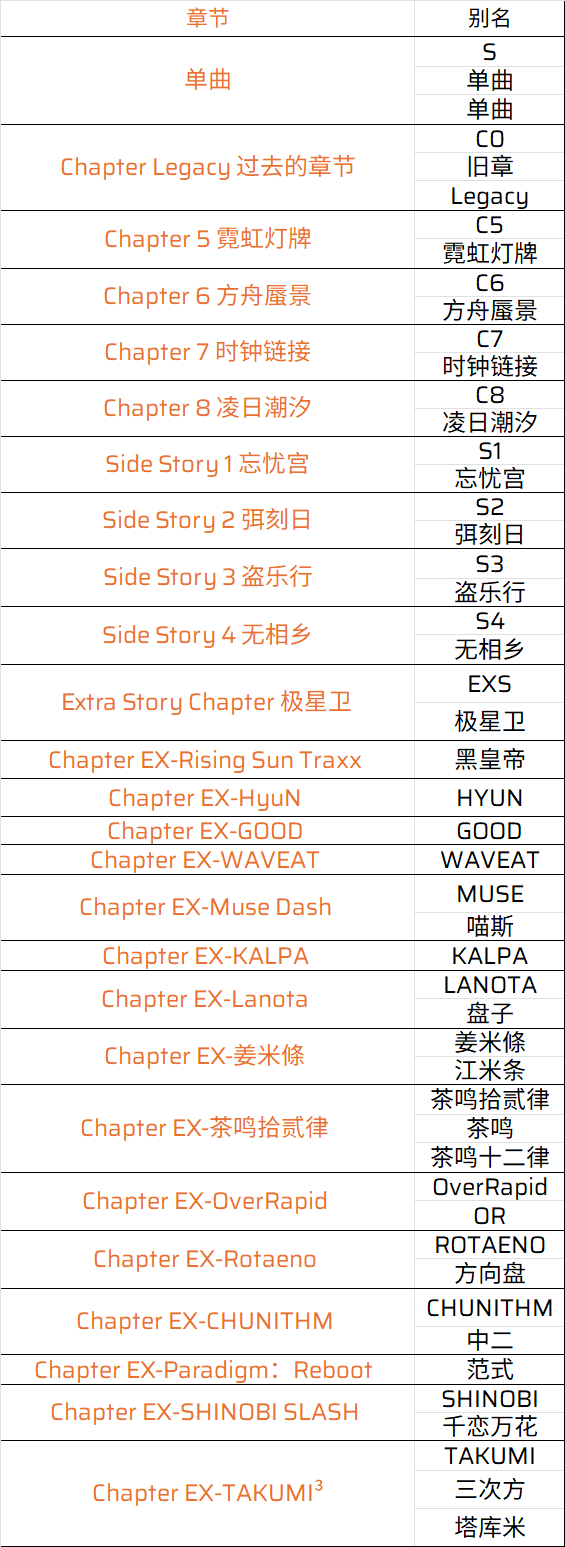
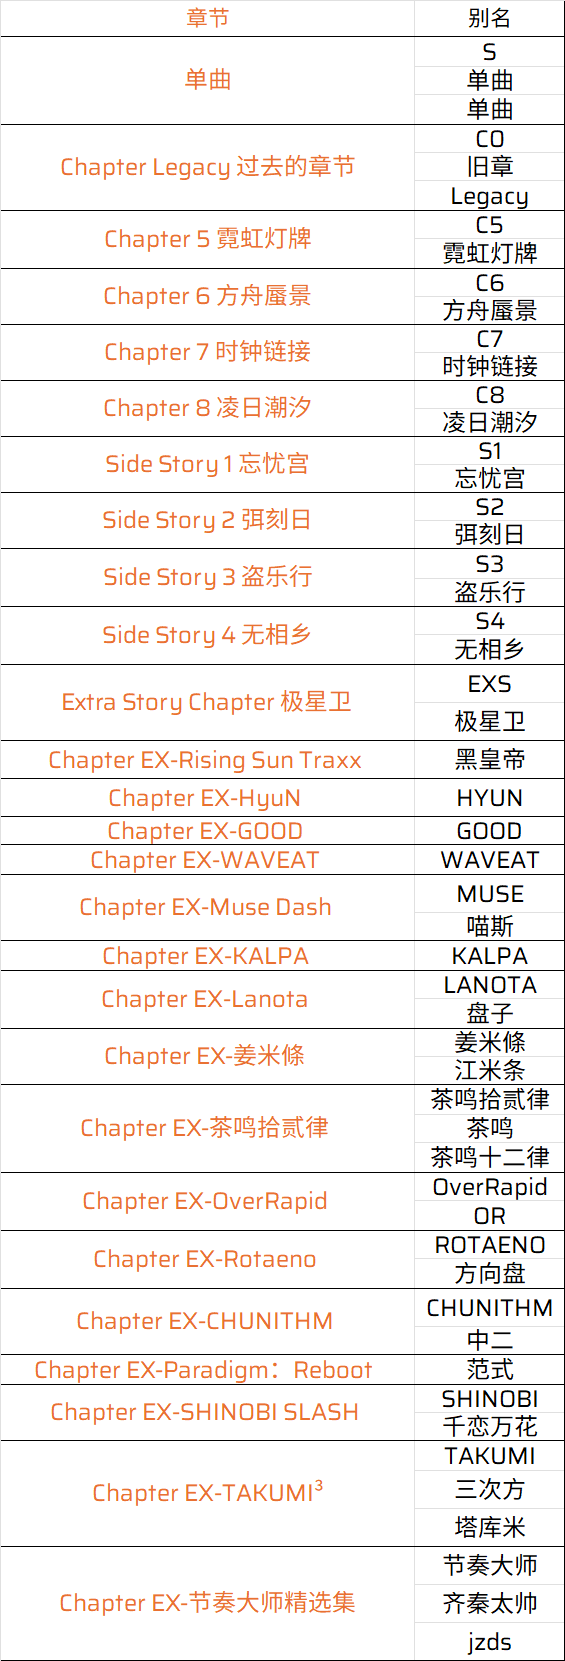
更新/chap

Changed region(s): [[0.0301, 0.0, 0.9929, 1.0], [0.331, 0.0, 0.4212, 0.0621]]

diff --git a/apps/b19.js b/apps/b19.js
@@ -14,7 +14,6 @@ import { LevelNum } from '../model/constNum.js';
 import getNotes from '../model/getNotes.js';
 import getPic from '../model/getPic.js';
 import getBanGroup from '../model/getBanGroup.js';
-import picmodle from '../model/picmodle.js';
 
 const ChallengeModeName = ['白', '绿', '蓝', '红', '金', '彩']
 
@@ -71,6 +70,9 @@ const chap = {
     TAKUMI: "Chapter EX-TAKUMI³精选集",
     塔库米: "Chapter EX-TAKUMI³精选集",
     三次方: "Chapter EX-TAKUMI³精选集",
+    节奏大师: "Chapter EX-节奏大师精选集",
+    齐秦太帅: "Chapter EX-节奏大师精选集",
+    jzds: "Chapter EX-节奏大师精选集",
 }
 
 export class phib19 extends plugin {
